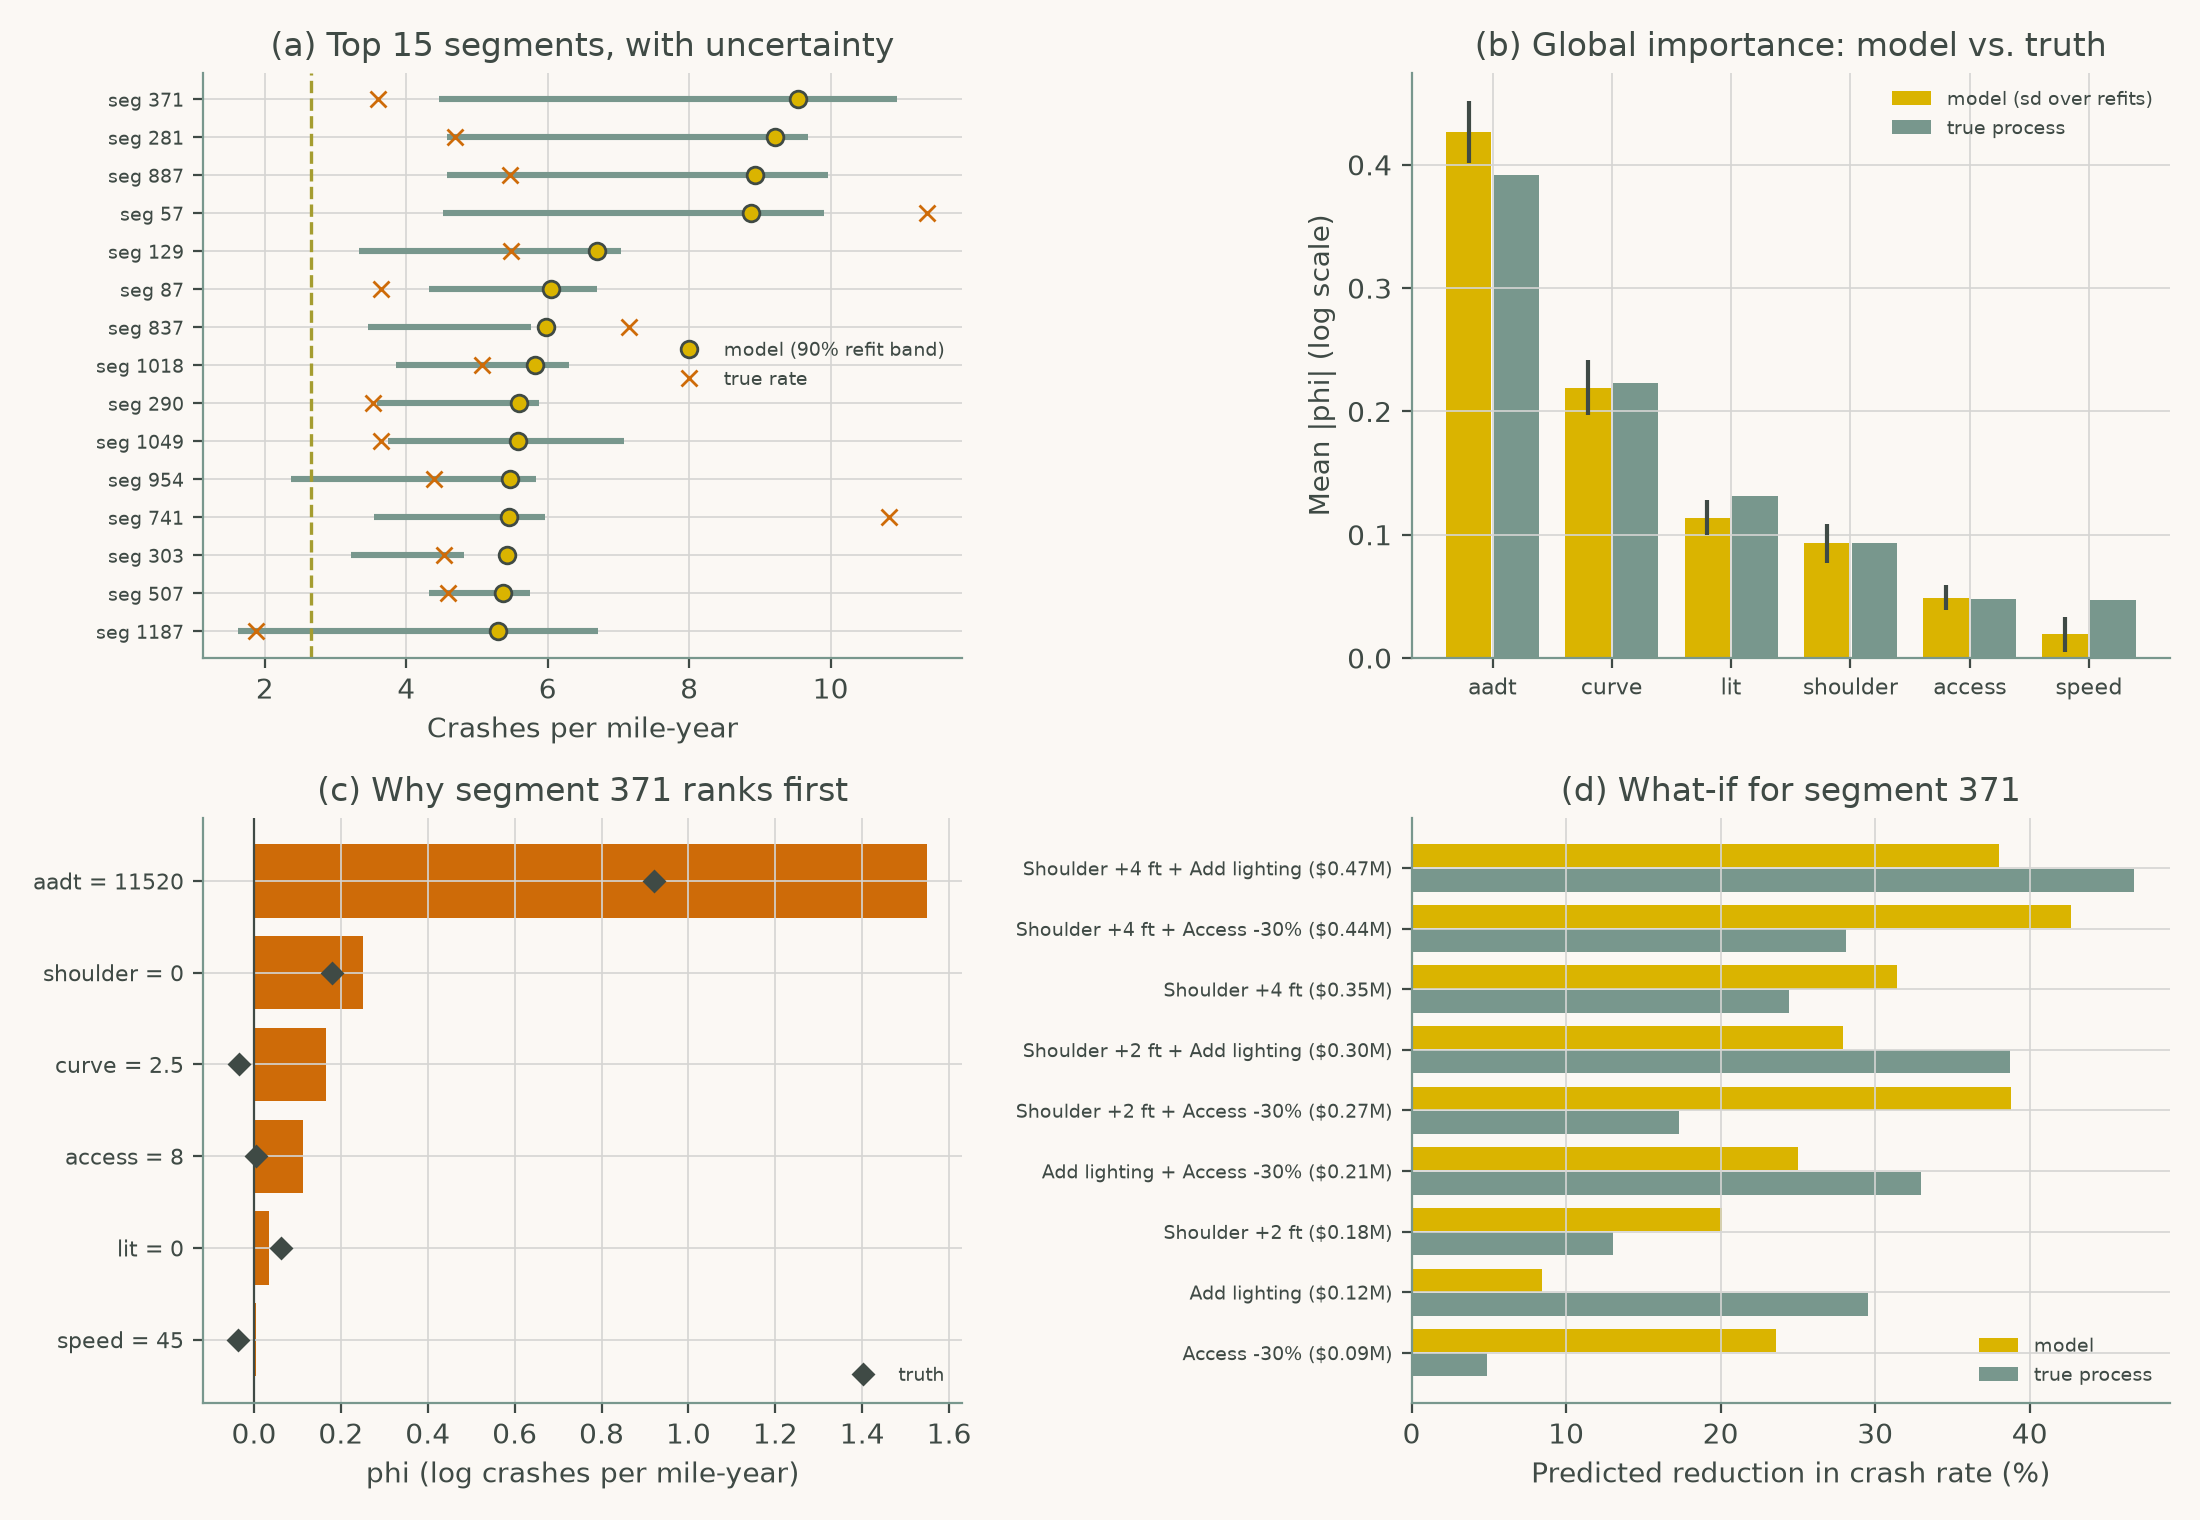
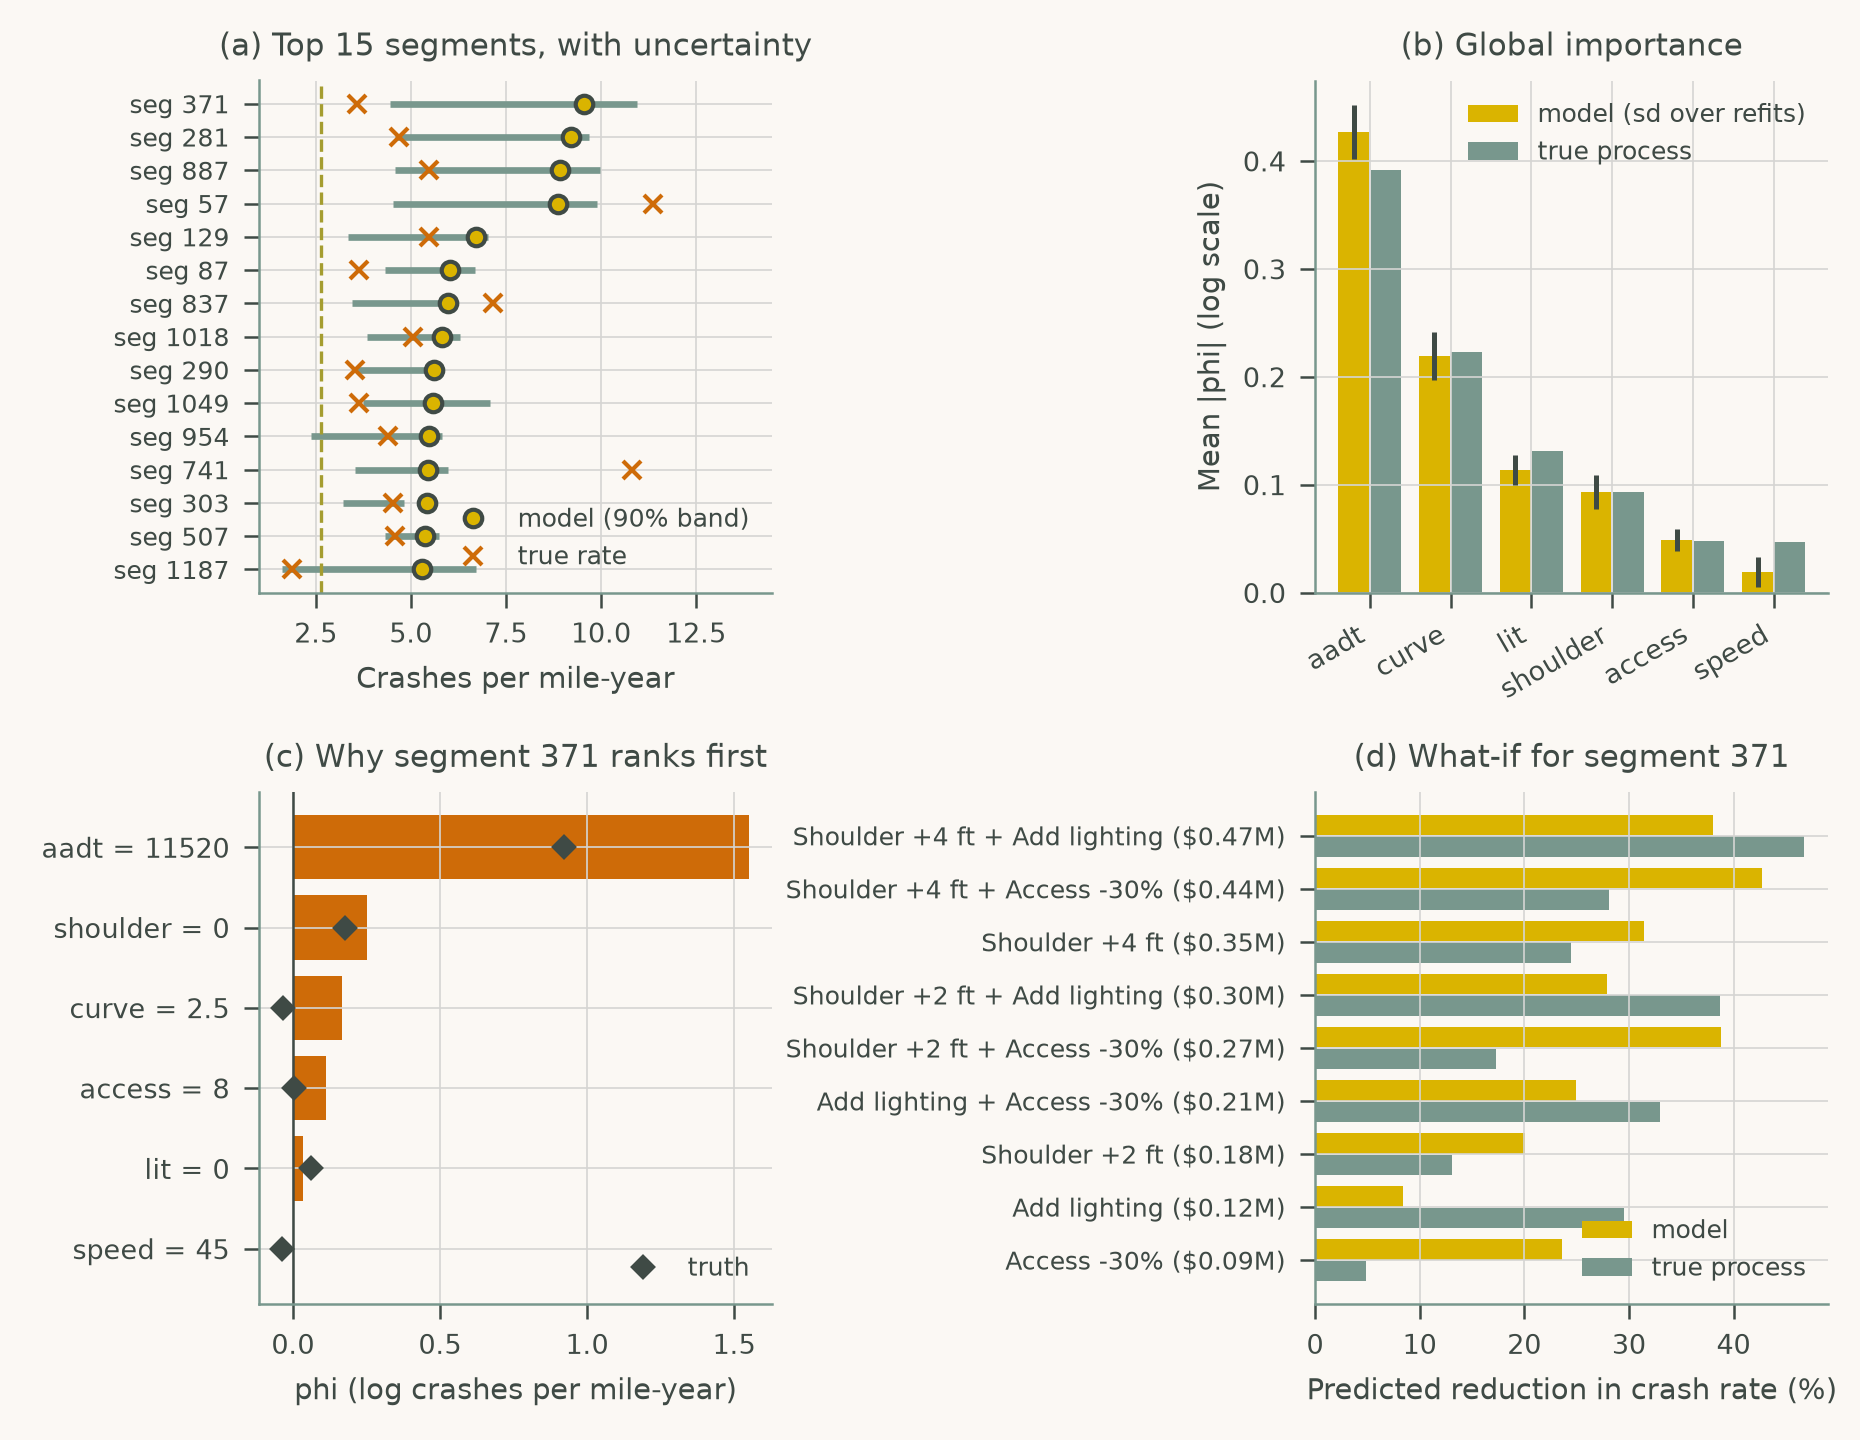
Redraw Chapter 7 figures at print size with readable type

diff --git a/chapters/ch07_human_ai_interaction/cs1_xai_dashboard.py b/chapters/ch07_human_ai_interaction/cs1_xai_dashboard.py
@@ -185,42 +185,47 @@ plt.rcParams.update({
     "xtick.color": INK, "ytick.color": INK,
     "figure.facecolor": PAPER, "axes.facecolor": PAPER,
     "axes.spines.top": False, "axes.spines.right": False,
-    "axes.grid": True, "grid.color": GRID, "grid.linewidth": 0.6})
-fig, ax = plt.subplots(2, 2, figsize=(11, 7.6))
+    "axes.grid": True, "grid.color": GRID, "grid.linewidth": 0.4,
+    "font.size": 7, "axes.titlesize": 7.5, "axes.labelsize": 7, "legend.fontsize": 6.5,
+    "xtick.labelsize": 6.5, "ytick.labelsize": 6.5, "axes.linewidth": 0.6,
+    "xtick.major.width": 0.6, "ytick.major.width": 0.6, "lines.linewidth": 1.2,
+    "legend.frameon": False})
+fig, ax = plt.subplots(2, 2, figsize=(6.2, 4.8))
 order = np.argsort(-pred)[:15]                                           # (a) ranking
 lo, hi = np.percentile(boot_pred[:, order], [5, 95], axis=0)
 yy = np.arange(15)[::-1]
-ax[0, 0].hlines(yy, lo, hi, color=SAGE, lw=2.2)
-ax[0, 0].plot(pred[order], yy, "o", color=GOLD, mec=INK, ms=6,
-              label="model (90% refit band)")
-ax[0, 0].plot(truth[order], yy, "x", color=RUST, ms=6, label="true rate")
-ax[0, 0].axvline(thr, color=OLIVE, ls="--", lw=1.2)
-ax[0, 0].set_yticks(yy, [f"seg {i}" for i in order], fontsize=7)
+ax[0, 0].hlines(yy, lo, hi, color=SAGE, lw=1.6)
+ax[0, 0].plot(pred[order], yy, "o", color=GOLD, mec=INK, ms=4.2,
+              label="model (90% band)")
+ax[0, 0].plot(truth[order], yy, "x", color=RUST, ms=4.2, label="true rate")
+ax[0, 0].axvline(thr, color=OLIVE, ls="--", lw=0.8)
+ax[0, 0].set_yticks(yy, [f"seg {i}" for i in order], fontsize=6)
 ax[0, 0].set(xlabel="Crashes per mile-year", title="(a) Top 15 segments, with uncertainty")
-ax[0, 0].legend(fontsize=7, frameon=False, loc="center right")
+ax[0, 0].set_xlim(1, 14.5)
+ax[0, 0].legend(fontsize=6, loc="lower right")
 xs = np.arange(P)                                                        # (b) global
 ax[0, 1].bar(xs - 0.2, imp.model, 0.38, yerr=imp.boot_sd, color=GOLD, ecolor=INK,
              label="model (sd over refits)")
 ax[0, 1].bar(xs + 0.2, imp.truth, 0.38, color=SAGE, label="true process")
-ax[0, 1].set_xticks(xs, imp.index, fontsize=8)
+ax[0, 1].set_xticks(xs, imp.index, fontsize=6.5, rotation=30, ha="right")
 ax[0, 1].set(ylabel="Mean |phi| (log scale)",
-             title="(b) Global importance: model vs. truth")
-ax[0, 1].legend(fontsize=7, frameon=False)
+             title="(b) Global importance")
+ax[0, 1].legend(fontsize=6)
 oj = np.argsort(np.abs(pk_m[0]))                                         # (c) local
 ax[1, 0].barh(np.arange(P), pk_m[0, oj], color=np.where(pk_m[0, oj] > 0, RUST, SAGE))
-ax[1, 0].plot(pk_t[0, oj], np.arange(P), "D", color=INK, ms=5, label="truth")
-ax[1, 0].set_yticks(np.arange(P), [f"{FEAT[j]} = {xk[0, j]:g}" for j in oj], fontsize=8)
-ax[1, 0].axvline(0, color=INK, lw=0.8)
+ax[1, 0].plot(pk_t[0, oj], np.arange(P), "D", color=INK, ms=3.5, label="truth")
+ax[1, 0].set_yticks(np.arange(P), [f"{FEAT[j]} = {xk[0, j]:g}" for j in oj], fontsize=6.5)
+ax[1, 0].axvline(0, color=INK, lw=0.6)
 ax[1, 0].set(xlabel="phi (log crashes per mile-year)",
              title=f"(c) Why segment {k} ranks first")
-ax[1, 0].legend(fontsize=7, frameon=False, loc="lower right")
+ax[1, 0].legend(fontsize=6, loc="lower right")
 cfp = cf.sort_values("cost")                                             # (d) what-if
 yy = np.arange(len(cfp))
 ax[1, 1].barh(yy + 0.2, cfp.model_cut, 0.38, color=GOLD, label="model")
 ax[1, 1].barh(yy - 0.2, cfp.true_cut, 0.38, color=SAGE, label="true process")
 ax[1, 1].set_yticks(yy, [f"{c} (${v:.2f}M)" for c, v in zip(cfp.change, cfp.cost)],
-                    fontsize=7)
+                    fontsize=6)
 ax[1, 1].set(xlabel="Predicted reduction in crash rate (%)",
              title=f"(d) What-if for segment {k}")
-ax[1, 1].legend(fontsize=7, frameon=False, loc="lower right")
-fig.tight_layout(); fig.savefig("chap07_fig01_xai_dashboard.png", dpi=200)
+ax[1, 1].legend(fontsize=6, loc="lower right")
+fig.tight_layout(); fig.savefig("chap07_fig01_xai_dashboard.png", dpi=300)

diff --git a/chapters/ch07_human_ai_interaction/cs2_bias_audit.py b/chapters/ch07_human_ai_interaction/cs2_bias_audit.py
@@ -171,42 +171,46 @@ plt.rcParams.update({
     "xtick.color": INK, "ytick.color": INK,
     "figure.facecolor": PAPER, "axes.facecolor": PAPER,
     "axes.spines.top": False, "axes.spines.right": False,
-    "axes.grid": True, "grid.color": GRID, "grid.linewidth": 0.6})
-fig, ax = plt.subplots(1, 3, figsize=(13, 4.2))
+    "axes.grid": True, "grid.color": GRID, "grid.linewidth": 0.4,
+    "font.size": 7, "axes.titlesize": 7.5, "axes.labelsize": 7, "legend.fontsize": 6.5,
+    "xtick.labelsize": 6.5, "ytick.labelsize": 6.5, "axes.linewidth": 0.6,
+    "xtick.major.width": 0.6, "ytick.major.width": 0.6, "lines.linewidth": 1.2,
+    "legend.frameon": False})
+fig, ax = plt.subplots(1, 3, figsize=(6.2, 2.45))
 edges = np.quantile(city.true_rate, np.linspace(0, 1, 9))              # (a) calibration
 for g, m, c in [("A", ~isB, SAGE), ("B", isB, RUST)]:
     b = np.clip(np.digitize(city.true_rate[m], edges[1:-1]), 0, 7)
     t = pd.Series(city.true_rate[m].to_numpy()).groupby(b).mean()
     for score, mk, lab in [(pred_base, "o", "baseline"), (pred_corr, "s", "corrected")]:
         p = pd.Series(score[m]).groupby(b).mean()
-        ax[0].plot(t, p, mk + ("-" if lab == "corrected" else "--"), color=c, ms=5,
+        ax[0].plot(t, p, mk + ("-" if lab == "corrected" else "--"), color=c, ms=3,
                    mfc=c if lab == "corrected" else PAPER, label=f"{g}, {lab}")
 lim = [0, city.true_rate.quantile(0.98)]
-ax[0].plot(lim, lim, ":", color=INK, lw=1)
+ax[0].plot(lim, lim, ":", color=INK, lw=0.6)
 ax[0].set(xlabel="True injury crashes per year", ylabel="Predicted",
           title="(a) Calibration by community")
-ax[0].legend(fontsize=8, frameon=False, loc="upper left")
+ax[0].legend(fontsize=6.5, loc="upper left")
 # (b) equal opportunity
 names = list(policies); x = np.arange(len(names))
 for k, (g, c) in enumerate([("A", SAGE), ("B", RUST)]):
     tpr = [audit[(audit.policy == n) & (audit.group == g)].TPR.iloc[0] for n in names]
     ppv = [audit[(audit.policy == n) & (audit.group == g)].PPV.iloc[0] for n in names]
     ax[1].bar(x + (k - 0.5) * 0.36, tpr, 0.34, color=c, label=f"TPR, {g}")
-    ax[1].plot(x + (k - 0.5) * 0.36, ppv, "D", color=INK, mfc=GOLD, ms=6,
+    ax[1].plot(x + (k - 0.5) * 0.36, ppv, "D", color=INK, mfc=GOLD, ms=3.6,
                label="PPV" if k == 0 else None)
-ax[1].set_xticks(x, [n.replace(" ", "\n") for n in names], fontsize=8)
+ax[1].set_xticks(x, [n.replace(" ", "\n") for n in names], fontsize=6.5)
 ax[1].set(ylim=(0, 1.15), ylabel="Rate", title="(b) True-positive rate and PPV")
-ax[1].legend(fontsize=8, frameon=False, loc="upper center", ncol=3)
+ax[1].legend(fontsize=6.5, loc="upper center", ncol=3)
 months = np.arange(1, MONTHS + 1)                                      # (c) feedback loop
 for policy, c in [("naive", RUST), ("per-unit", SAGE)]:
     lo, hi = np.percentile(loop[policy], [5, 95], axis=0)
     ax[2].fill_between(months, lo, hi, color=c, alpha=0.25)
-    ax[2].plot(months, loop[policy].mean(0), color=c, lw=2,
-               label="allocate by detections" if policy == "naive"
-               else "allocate by detections per unit")
-ax[2].axhline(0.5, color=INK, ls=":", lw=1)
-ax[2].text(24.5, 0.52, "true share of risk", fontsize=8, ha="right")
-ax[2].set(xlabel="Month", ylabel="Share of detection units in B", ylim=(0, 0.7),
-          title="(c) A feedback loop locks in history")
-ax[2].legend(fontsize=8, frameon=False, loc="lower right")
-fig.tight_layout(); fig.savefig("chap07_fig02_bias_audit.png", dpi=200)
+    ax[2].plot(months, loop[policy].mean(0), color=c, lw=1.2,
+               label="by detections" if policy == "naive"
+               else "by detections per unit")
+ax[2].axhline(0.5, color=INK, ls=":", lw=0.6)
+ax[2].text(24.5, 0.52, "true share of risk", fontsize=6.5, ha="right")
+ax[2].set(xlabel="Month", ylabel="Share of units in B", ylim=(0, 0.7),
+          title="(c) Feedback locks in history")
+ax[2].legend(fontsize=6.5, loc="lower right")
+fig.tight_layout(); fig.savefig("chap07_fig02_bias_audit.png", dpi=300)
